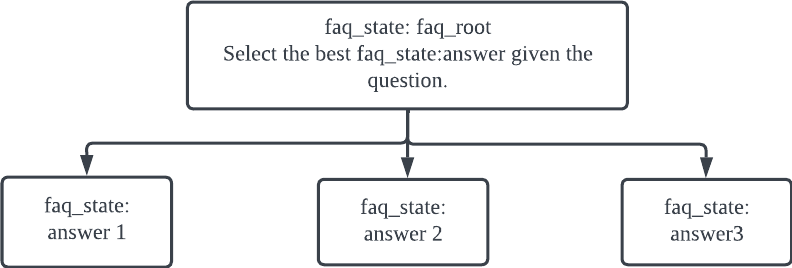
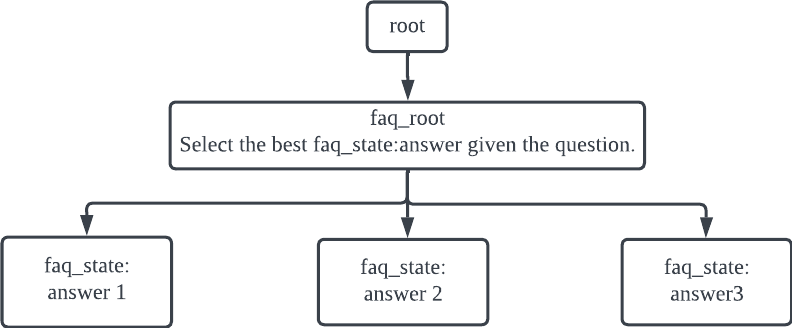
end to end module 1

diff --git a/docs/docs/canonicai/main_eecs499.md b/docs/docs/canonicai/main_eecs499.md
@@ -16,8 +16,10 @@ jsctl -- help
 ```
 `jsctl` stands for the Jaseci Command Line Interface.
 If the command above displays the help menu for `jsctl`, then you have succssfully installed jaseci.
+
 > **Note**
-> Take a quick look through these commands while you are at it. `jsctl` will be frequently used throughout this journey.
+>
+> Take a look and get familiarized with these commands while you are at it. `jsctl` will be frequently used throughout this journey.
 
 ## Background
 A few essential concepts to get familiar with.
@@ -36,15 +38,19 @@ At the end of this section, you will have a chatbot that, when given a question,
 The use case here is a Tesla FAQ chatbot.
 We will be using the list of FAQs from https://www.tesla.com/en_SG/support/faq.
 
-## Graph architecture
-Our target
-The graph structure is as follows:
+> **Note**
+>
+> This architecture works for any FAQ topics and use case. Feel free to pick another product/website/company's FAQ if you'd like!
 
-![faq_1](./new_images/faq_1.png)
+## Define the Nodes
 
-Starting with a simple FAQ node. We are going to first use string matching on question to find the right answer.
+We have 3 different type of nodes:
+* `root`: This is the root node of the graph. It is a built-in node type and each graph has one root node only.
+* `faq_root`: This is the entry point of the FAQ handler. We will make the decision on the most relevant answer at this node.
+* `faq_state`: This node represents a FAQ entry. It contains a candidate answer from the knowledge base.
 
-To define a node:
+
+Now let's define the custom node types.
 ```js
 node faq_root;
 node faq_state {
@@ -52,23 +58,40 @@ node faq_state {
     has answer;
 }
 ```
-`has` defines nodes variables. In this case, each `faq_state` has a question and answer;
+The `has` keyword defines nodes variables. In this case, each `faq_state` has a `question` and `answer`.
 
-To spawn/create an node:
+> **Warning**
+>
+> The `root` node does not need explicit definition. It is a built-in node type. Avoid using `root` as a custom node type.
+
+To spawn a node of a specific type, use the `spawn` keyword:
 ```js
 faq_answer_1 = spawn node::faq_state(
     question="How do I configure my order?",
     answer="To configure your order, log into your Tesla account.",
 );
 ```
-The `spawn` keyword can span a Jaseci object. In the above example, we just spawned a `faq_state` node called `faq_answer_1` and initialized its `question` and `answer` variables.
+In the above example, we just spawned a `faq_state` node called `faq_answer_1` and initialized its `question` and `answer` variables.
+> **Note**
+>
+> The `spawn` keyword can be used to spawn many different jaseci objects, such as nodes, graphs and walkers.
 
-The `spawn` keyword can also be used inside a `graph` block to define a static graph:
+## Build the Graph
+For this FAQ chatbot, we will build a graph like illustrated here:
+
+<p align="center">
+  <img width="600" src="new_images/faq_1.png">
+</p>
+
+The idea here is that we will decide which FAQ entry is the most relevant to the incoming question at the `faq_root` node and then we will traverse to that node to fetch the corresponding answer.
+
+To define this graph architecture:
 ```js
-// This is a comment
+// Static graph definition
 graph faq {
     has anchor faq_root;
     spawn {
+        // Spawning the nodes
         faq_root = spawn node::faq_root;
         faq_answer_1 = spawn node::faq_state(
             question="How do I configure my order?",
@@ -82,11 +105,25 @@ graph faq {
             question="Can I request a test drive",
             answer="Yes. You must be a minimum of 25 years of age."
         );
+
+        // Connecting the nodes together
+        faq_root --> faq_answer_1;
+        faq_root --> faq_answer_2;
+        faq_root --> faq_answer_3;
     }
 }
 ```
+Let's break down this piece of code.
+* We spawn 4 nodes, one of the type `faq_root` and three are of the type `faq_state`.
+* We connect each of the faq answer state to the faq root with `faq_root --> faq_answer_*`.
+* We set the `faq_root` as the anchor node of the graph. Spawning a graph will return its anchor node.
 
-To create this graph, we will create an `init` walker.
+> **Warning**
+>
+> An anchor node is required for a graph block. It must be spawned inside the spawn block of the graph definition.
+
+## Initialize the Graph
+Similar to nodes, in order to create the graph, we will use the `spawn` keyword.
 ```js
 walker init {
     root {
@@ -94,126 +131,164 @@ walker init {
     }
 }
 ```
-`spawn here --> graph::faq` creates an instance of the `faq` graph and connect its anchor node to `here` with an edge `-->`.
+This is the first walker we have introduced so let's break it down.
+* The walker is called `init`.
+* It contains logic specifically for the `root` node, meaning that the code inside the `root {}` block will run **only** on the `root` node. This syntax applies for any node types, as you will see very soon.
+* `spawn here --> graph::faq` creates an instance of the `faq` graph and connect its anchor node to `here` which is the node the walker is currently on.
 
-Now our graph looks like this:
+> **Note**
+>
+> `init` is a built-in walker type. It is the default walker to run when no specific walkers are specified for a `jac run` command.
+>
+> `here` is a very powerful keyword. It always evaluates to the specific node the walker is currently on. You will be using `here` a lot throughout this tutorial.
 
-![faq_2](./new_images/faq_2.png)
+## Run the `init` Walker
+Now, let's run the init walker to initialize the graph.
+First put all the above code snippet in a single jac file and name it `main.jac`, including
+* nodes defintion
+* graph definition
+* init walker
 
-Now, let's run the walker. First put all the above code snippet in a single jac file and name it `main.jac`
-
-Run `jsctl` to get into its shell environment:
+Run `jsctl` to get into the jaseci shell environment:
 ```bash
 jsctl
 ```
-While inside the `jsctl` shell,
+Inside the `jsctl` shell,
 ```bash
-jaseci > sentinel register main.jac
-jaseci > walker run init
+jaseci > jac dot main.jac
 ```
+This command runs the `init` walker of the `main.jac` program and return the state of its graph in DOT format after the walker has finished.
+[The DOT language](https://graphviz.org/doc/info/lang.html) is a popular graph description language widely used for representing complex graphs.
 
-`sentinel register` activate and register your code.
-`walker run` executes a walker.
+The output should look something like this
+<img align="right" width="500" src="new_images/dot_1.svg">
 
-TODO: jac dot FILE
-
-Now let's check what the graph looks like
-```bash
-jaseci > graph get -detailed true
-```
-
-`graph get` returns details of a given graph, including all of its consitutent objects. You can see this is not very readable. Alternatively,
-
-```bash
-jaseci > graph get -mode dot
-```
-The `-mode dot` argument will return the graph in the popular `dot` language format.
-
-You can use a dot visualizer tool to easily visualize your graph. For example, https://dreampuf.github.io/GraphvizOnline has as WSIWYG editor to render dot graph in real time.
-
-Your dot graph should look something like this
-
-![dot_1](./new_images/dot_1.svg)
-
-You might wonder "Okay...I created 4 faq_state nodes, how come there is only one???"
-
-This is because only one of the 4 nodes are actually connected, (root --> faq_root). So the other three are currently detached. So let's connect them by adding the following lines to the graph spawn block
-
-```js
-graph faq {
-    ...
-    spawn {
-        ...
-        faq_root --> faq_answer_1;
-        faq_root --> faq_answer_2;
-        faq_root --> faq_answer_3;
-    }
+```dot
+strict digraph root {
+    "n0" [ id="0955c04e4ff945b4b836748ef2bbd98a", label="n0:root"  ]
+    "n1" [ id="c1240d79110941c1bc2feb18581951bd", label="n1:faq_state"  ]
+    "n2" [ id="55333be285c246db88181ac34d16cd20", label="n2:faq_state"  ]
+    "n3" [ id="d4fa8f2c46ca463f9237ef818e086a29", label="n3:faq_state"  ]
+    "n4" [ id="f7b1c8ae82af4063ad53646adc5544e9", label="n4:faq_state"  ]
+    "n0" -> "n1" [ id="a718fd6c938149269d3ade2af2eb023c", label="e0" ]
+    "n1" -> "n2" [ id="3757cb15851249b4b6083d7cb3c34f8e", label="e1" ]
+    "n1" -> "n4" [ id="626ce784a8f5423cae5d5d5ca857fc5c", label="e2" ]
+    "n1" -> "n3" [ id="a609e7b54bde4a6a9c9711afdb123241", label="e3" ]
 }
 ```
 
-Now run the `init` walker and read the graph in dot format, and you should see something like this
+> **Note**
+>
+> We are not going to cover the DOT syntax. There are many resources online if you are interested, e.g., https://graphviz.org/doc/info/lang.html
 
-NOTE: This flow has an issue too because it will just keep adding to the existing default graph.
+> **Note**
+>
+> There are tools available to render a graph in DOT format. For example, https://dreampuf.github.io/GraphvizOnline has as WSIWYG editor to render dot graph in real time.
 
-![dot_2](./new_images/dot_2.svg)
+Congratulations! 🎉 You have just created your first functional jac program!
 
-Note: Below are just outline. I wrote the text up until this point.
+## Ask the Question
 
-Now let's add a walker to ask question.
+Alright, we have initialized the graph.
+Now it's time to create the code for the question-answering.
+We will start with a simple string matching for the answer selection algorithm.
+For this, we will create a new walker called `ask`.
 
 ```js
 walker ask {
     has question;
-    has ready;
     root {
-        take --> node::faq_state;
+        question = std.input(">");
+        take --> node::faq_root;
     }
-    faq_state {
+    faq_root {
         take --> node::faq_state(question=question);
     }
-    faq_answer {
-        report here.answer;
+    faq_state {
+        std.out(here.answer);
     }
 }
 ```
+This walker is more complex than the `init` one and introduces a few new concepts so let's break it down!
+* Similar to nodes, walker can also contain `has` variables. They define variables of the walker. They can also be passed as parameters when calling the walker.
+* `std.input` and `std.out` read and write to the command line.
+* This walker has logic for three types of node: `root`, `faq_root` and `faq_state`.
+    * `root`: It simply traverse to the `faq_root` node.
+    * `faq_root`: This is where the answer selection algorim is. We will find the most relevant `faq_state` and then traverse to that node via a `take` statement. In this code snippet, we are using a very simple (and limited) string matching approach to try to match the predefined FAQ question with the user question.
+    * `faq_state`: Print the answer to the terminal
 
-Explain what is happening within the walker.
-We are using simple string matching to find the right answer.
-
-Now let's run this walker
-```bash
-jaseci > walker run ask -ctx "{\"question\": \"How do I configure my order?\"}"
+Before we run this walker, we are going to update the `init` walker to speed up our development process
+```js
+walker init {
+    root {
+        spawn here --> graph::faq;
+        spawn here walker::ask;
+    }
+}
 ```
-Replace this with `jac run`.
+This serves as a shorthand so that we can initialize the graph and ask question in one command.
+> **Note**
+>
+> This demonstrates how one walker can spawn another walker using the `spawn` keyword.
 
-Introduce USE_QA to replace the simple string matching.
+Time to run the walker!
+```bash
+jaseci > jac run main.jac
+```
+`jac run` functions very similarly to `jac dot`, with the only difference being that it doesn't return the graph in DOT format.
+Try giving it one of the three questions we have predefined and it should respond with the corresponding answer.
 
-Primer on jaseci actions
+## Introducing Universal Sentence Encoder
+Now, obvisouly, what we have now is not very "AI" and we need to fix that.
+We are using the Universal Sentence Encoder QA model as the answer selection algorithm.
+Universal Sentence Encoder is a language encoder model that is pre-trained on large corpus of natural language data and have been shown to be effective in many NLP tasks.
+In our application, we are using it for zero-shot question-answering, i.e. no custom training required.
 
-Load actions
+Jaseci has a set of built-in libraries or packages that are called Jaseci actions.
+These actions cover a wide-range of state-of-the-art AI models across many different NLP tasks.
+These actions are packaged in a python module called `jaseci_kit`.
 
-Update the walker code to use use_qa instead of string matching
+To install `jaseci_kit`:
+```bash
+pip install jaseci_kit
+```
 
-introduce std.input and std.output here.
+Now we load the action we need into our jaseci environment
+```bash
+jaseci > actions load module jaseci_kit.use_qa
+```
+
+Let's update our walker logic to use the USE QA model:
 ```js
 walker ask {
     has question;
-    has ready;
     root {
+        question = std.input(">");
         take --> node::faq_state;
     }
-    faq_state {
-        # USE USE_QA HERE
+    faq_root {
+        answers = -->.answer;
+        best_answer = use.qa_classify(
+            text = question,
+            classes = answers
+        );
+        take --> node::faq_state(answer==best_answer["matched"]);
     }
-    faq_answer {
-        report here.answer;
+    faq_state {
+        std.out(here.answer);
     }
 }
 ```
+Even though there are only 5 lines of new code, there are many interesting aspects so let's break it down!
+* `-->.answer` collects the `answer` variable of all of the nodes that are connected to `here`/`faq_root` with a `-->` connection.
+* `use.qa_classify` is one of the action supported by the USE QA action set. It takes in a question and a list of candidate answers and return the most relevant one.
 
-Run the new walker with use_qa
+Now let's run this new walker and you can now ask questions that are relevant to the answers beyond just the predefined ones.
 
-Initialize your bot from a knowledge base of FAQ entries.
+## Scale it Out
+So far we have created a FAQ bot that is capble of provide answer in three topics.
+To make this useful beyond just a prototype, we are now going to expand its database of answers.
+Instead of manually spawning and connecting a node for each FAQ entry, we are going to write a walker that automatically expand our graph:
 ```js
 walker ingest_faq {
     has kb_file;
@@ -227,6 +302,6 @@ walker ingest_faq {
     }
 }
 ```
-Visualize the graph using dot, see many more `faq_state` nodes.
-
-Run the walker again, now with hundreds of answers initialized via the `ingest_faq` walker.
+> **Note**
+>
+> If are curious (and adventurous), try visualizes this new graph via DOT!
